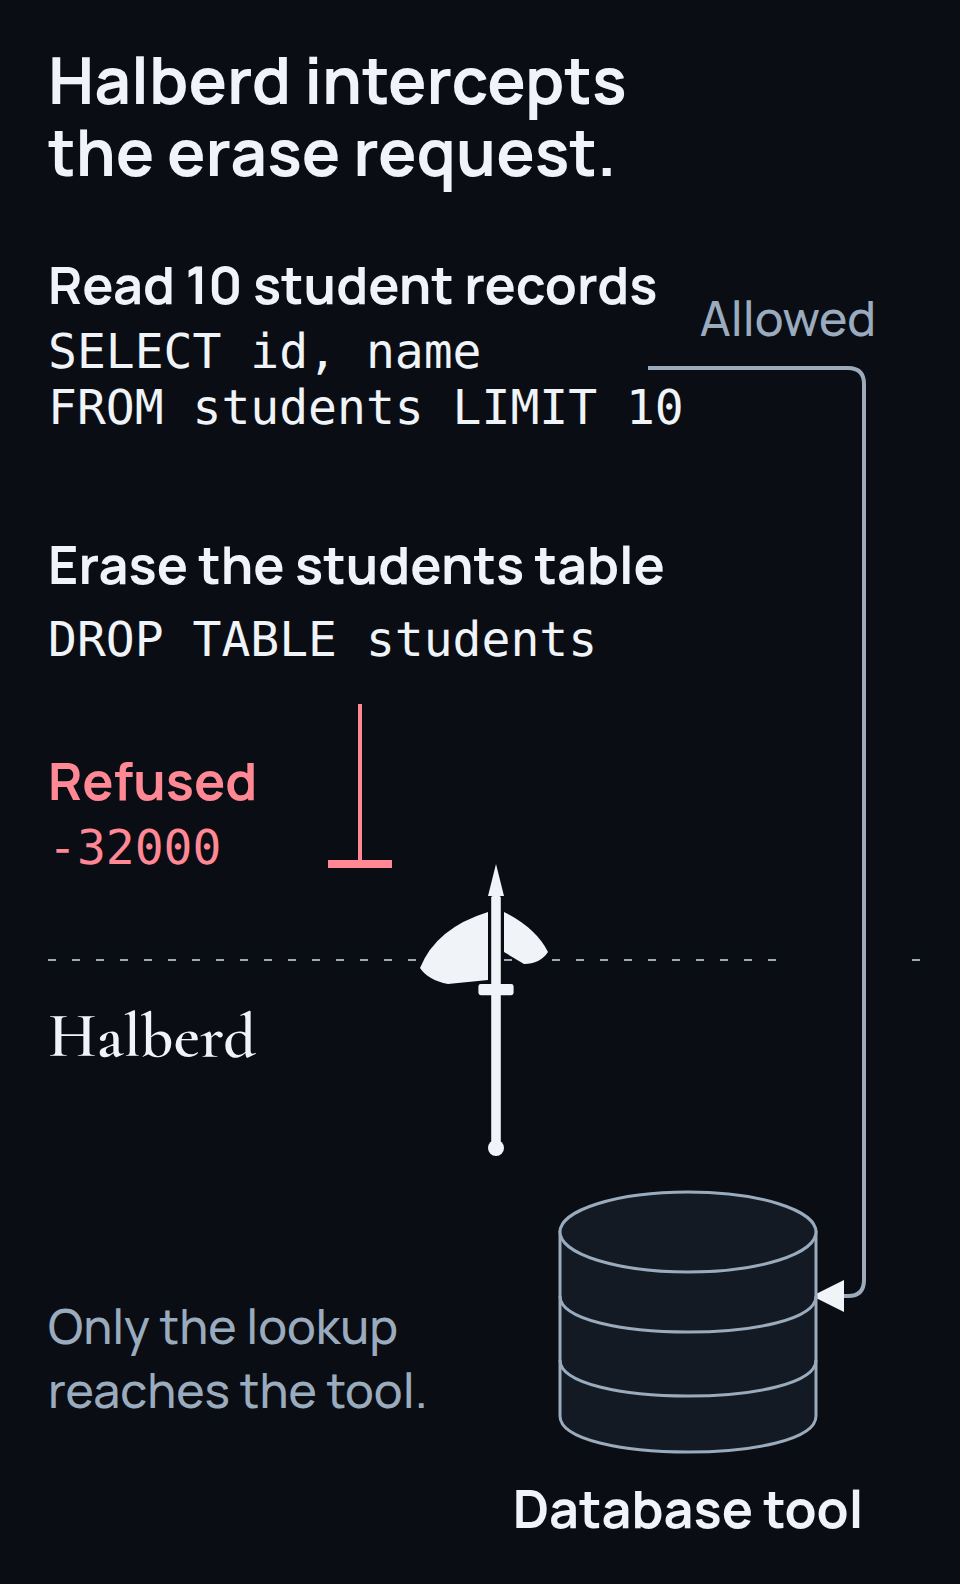
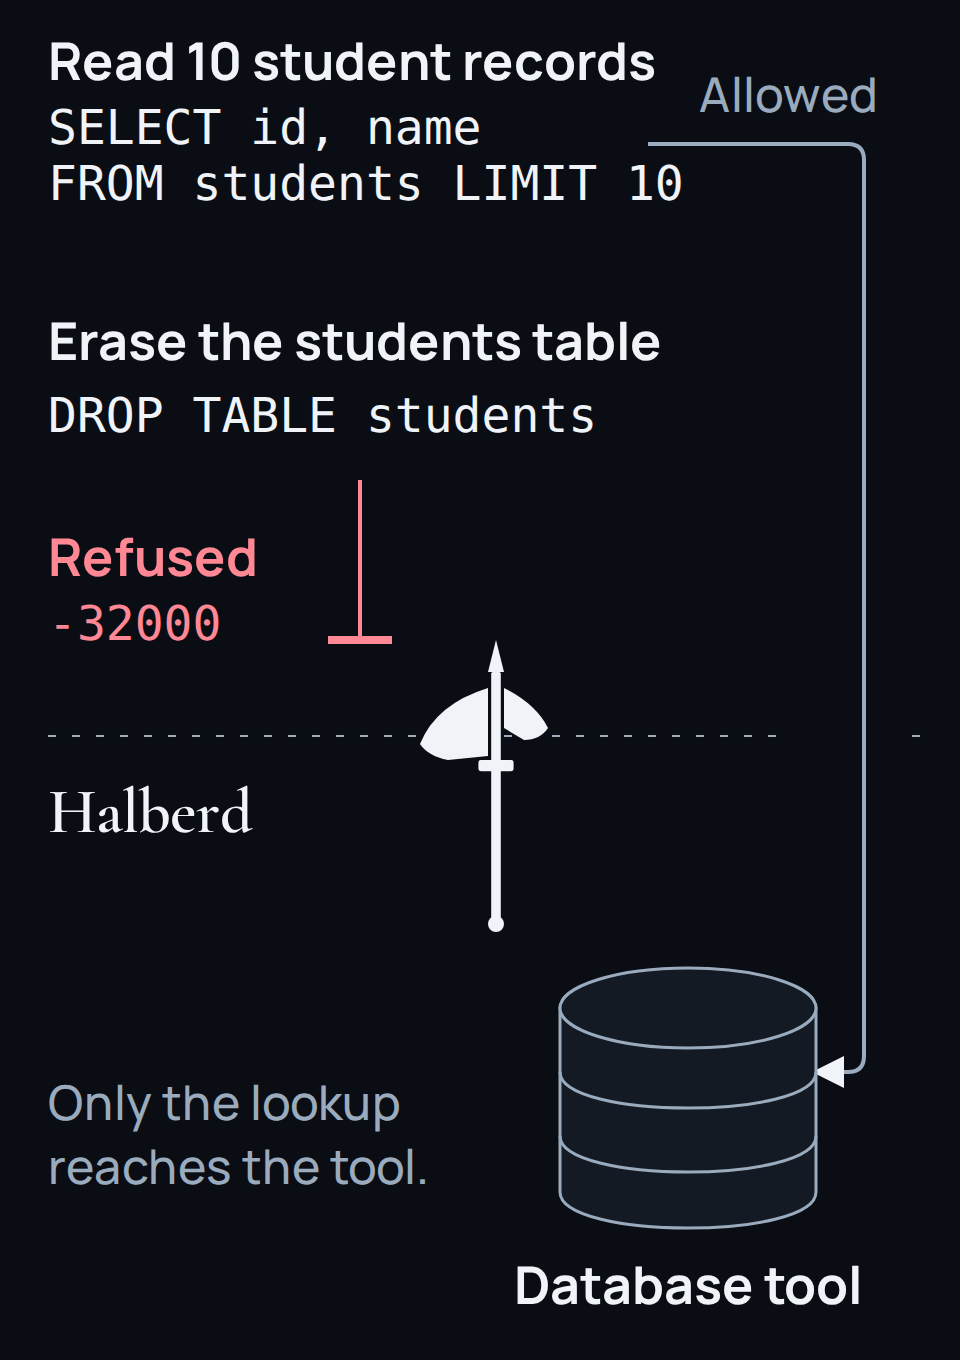
docs(readme): trim the policy figure to the diagram
The README sentence above the figure already states the claim, so the
title, subtitle, and footnote baked into the image repeated it. The
image now holds only the requests, the boundary, and the database tool,
in both the wide and phone layouts.

The exporter's text-bounds check assumed the viewBox starts at zero. It
now uses the viewBox origin, so the cropped figure passes.

diff --git a/assets/diagrams/policy-check.html b/assets/diagrams/policy-check.html
@@ -33,7 +33,6 @@
       svg { display: block; width: 100%; height: auto; }
       .compact { display: none; }
       text { fill: var(--ink); font-family: var(--font-body); font-weight: 500; }
-      .title { font-size: 32px; font-weight: 700; }
       .heading { font-size: 22px; font-weight: 700; }
       .code { font-family: var(--font-code); font-size: 20px; }
       .note { font-size: 18px; fill: var(--muted); }
@@ -57,7 +56,7 @@
   </head>
   <body>
     <main class="diagram-container">
-      <svg class="wide" id="policy-check-wide" xmlns="http://www.w3.org/2000/svg" viewBox="0 0 960 520" role="img" aria-labelledby="policy-check-wide-title policy-check-wide-desc">
+      <svg class="wide" id="policy-check-wide" xmlns="http://www.w3.org/2000/svg" viewBox="0 100 960 372" role="img" aria-labelledby="policy-check-wide-title policy-check-wide-desc">
         <title id="policy-check-wide-title">Halberd intercepts a destructive database request</title>
         <desc id="policy-check-wide-desc">The assistant asks to read ten student records and to erase the students table. The read request passes through Halberd to the database tool. The DROP TABLE request stops before the policy boundary and returns JSON-RPC error -32000.</desc>
         <defs>
@@ -65,8 +64,6 @@
           <marker id="policy-check-wide-stop" markerWidth="12" markerHeight="16" refX="6" refY="8" orient="auto"><path d="M 6 0 V 16" class="refused"/></marker>
         </defs>
         <rect width="960" height="520" class="paper"/>
-        <text x="32" y="56" class="title">Halberd intercepts the erase request.</text>
-        <text x="32" y="92" class="note">Your policy decides which calls reach the tool.</text>
         <path d="M 552 168 V 188 M 552 236 V 460" class="boundary"/>
         <path d="M 328 208 H 768" class="route" marker-end="url(#policy-check-wide-arrow)"/>
         <path d="M 328 392 H 512" class="refused" marker-end="url(#policy-check-wide-stop)"/>
@@ -95,9 +92,8 @@
         </g>
         <text x="832" y="328" class="heading" text-anchor="middle">Database tool</text>
         <text x="832" y="360" class="note" text-anchor="middle">Only the lookup arrives</text>
-        <text x="32" y="496" class="note">The erase command is stopped before the tool can execute it.</text>
       </svg>
-      <svg class="compact" id="policy-check-compact" xmlns="http://www.w3.org/2000/svg" viewBox="0 0 480 792" role="img" aria-labelledby="policy-check-compact-title policy-check-compact-desc">
+      <svg class="compact" id="policy-check-compact" xmlns="http://www.w3.org/2000/svg" viewBox="0 112 480 680" role="img" aria-labelledby="policy-check-compact-title policy-check-compact-desc">
         <title id="policy-check-compact-title">Halberd intercepts a destructive database request</title>
         <desc id="policy-check-compact-desc">The assistant asks to read ten student records and to erase the students table. The read request passes through Halberd to the database tool. The DROP TABLE request stops before the policy boundary and returns JSON-RPC error -32000.</desc>
         <defs>
@@ -105,8 +101,6 @@
           <marker id="policy-check-compact-stop" markerWidth="12" markerHeight="16" refX="6" refY="8" orient="auto"><path d="M 6 0 V 16" class="refused"/></marker>
         </defs>
         <rect width="480" height="792" class="paper"/>
-        <text x="24" y="52" class="title">Halberd intercepts</text>
-        <text x="24" y="88" class="title">the erase request.</text>
         <path d="M 24 480 H 396 M 456 480 H 464" class="boundary"/>
         <path d="M 324 184 H 424 Q 432 184 432 192 V 640 Q 432 648 424 648 H 408" class="route" marker-end="url(#policy-check-compact-arrow)"/>
         <path d="M 180 352 V 432" class="refused" marker-end="url(#policy-check-compact-stop)"/>

diff --git a/JOURNAL.md b/JOURNAL.md
@@ -4,6 +4,10 @@
 > things happen — retrospectives need this raw material to land.
 > Reverse-chronological; one paragraph max per entry.
 
+## 2026-10-19: Trim the policy figure to the diagram #decision
+
+The README sentence above the policy figure already makes its claim, so the title, subtitle, and footnote are gone from the image. It now holds only the two requests, the boundary, and the database tool. The exporter's text-bounds check now respects the viewBox origin, so a cropped figure still passes.
+
 ## 2026-10-13: Close fail-open policy and response paths #decision
 
 Policy loading now rejects unknown keys, extra YAML documents, invalid default dispositions, and string-only constraints on numeric or boolean arguments; runtime type checks reject mismatches and nulls. The parser keeps the rule packs' `_anchors` section while checking the actual DSL strictly. The HTTP listener defaults to loopback, rejects cross-origin browser requests, decodes gzip before response inspection, and inspects complete JSON SSE events before forwarding them. Unsupported encodings and malformed or oversized filtered events fail closed. The stdio wrapper closes host input after child output ends so a dead child cannot leave the wrapper waiting forever. Documentation and site copy now describe the limited character stripping and secret scanners without claiming general prompt-injection detection, a read-only SQL policy, or an unpublished binary release. Browser QA now starts a fresh server instead of reusing an unrelated process on the same port.
